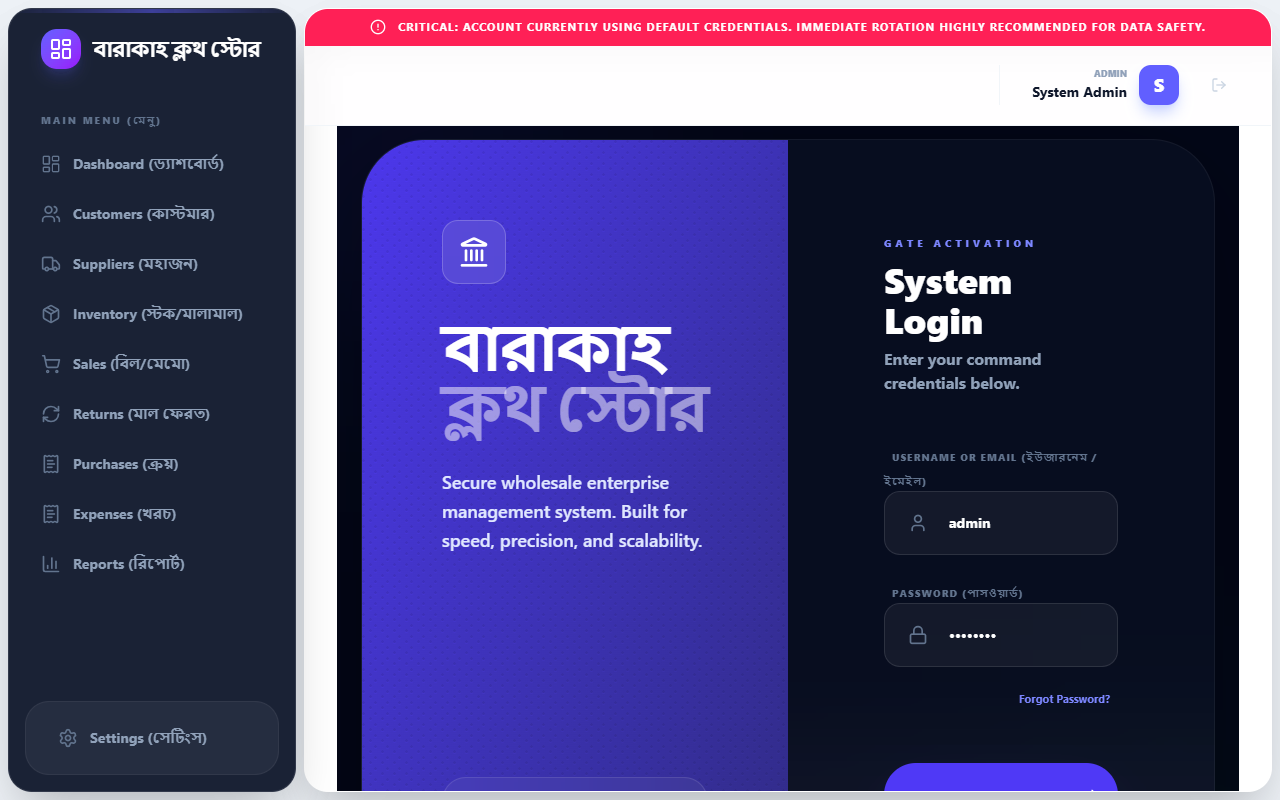
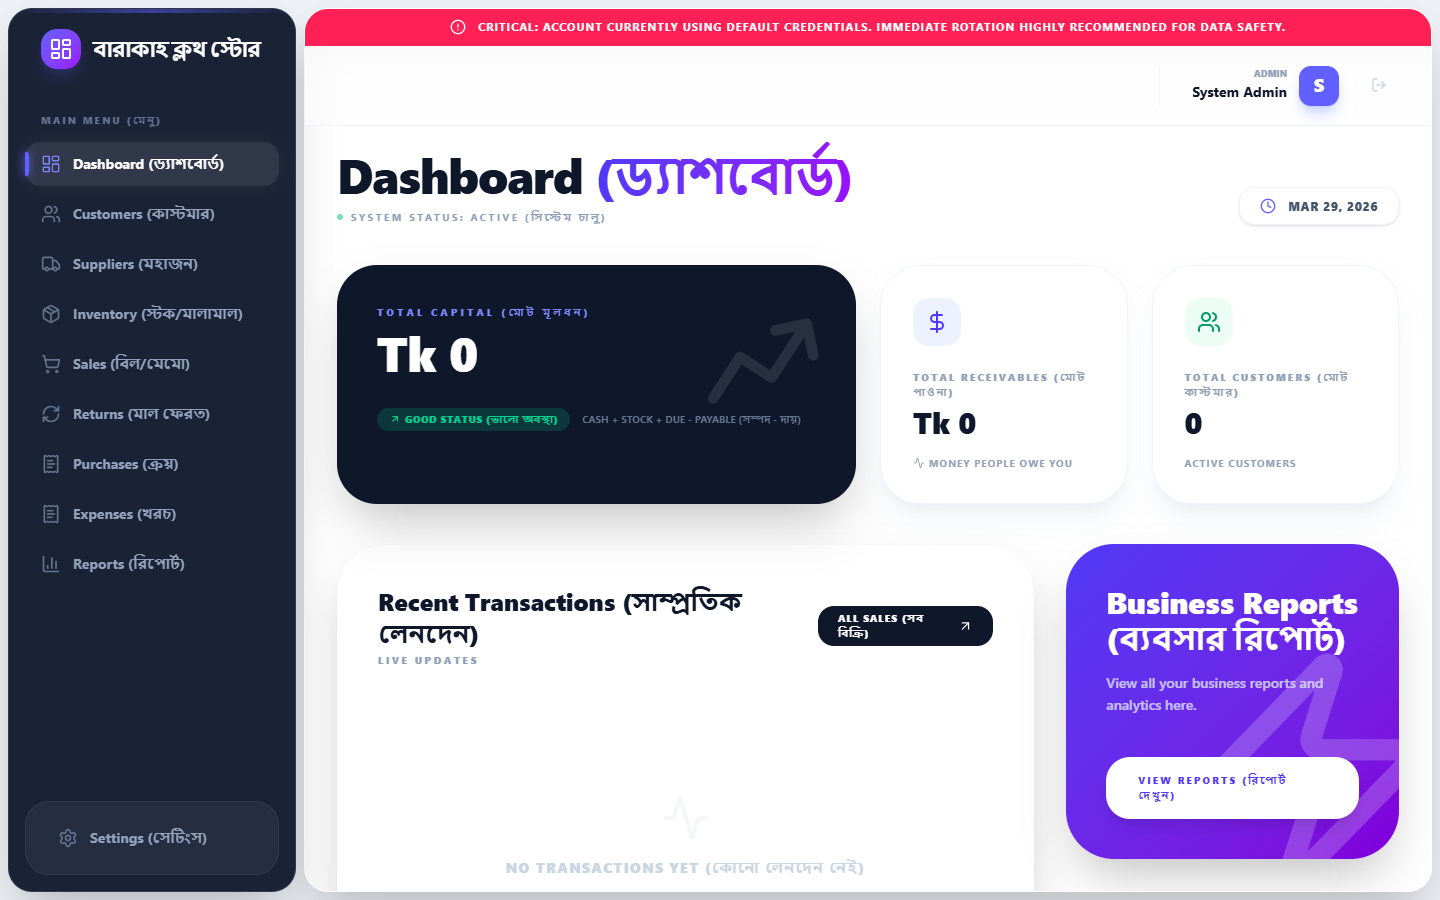
Add comprehensive screenshots of all application pages

diff --git a/take_screenshots.js b/take_screenshots.js
@@ -1,4 +1,6 @@
 const puppeteer = require('puppeteer-core');
+const fs = require('fs');
+const path = require('path');
 
 (async () => {
   const browser = await puppeteer.launch({ 
@@ -6,7 +8,7 @@ const puppeteer = require('puppeteer-core');
     executablePath: 'C:\\Program Files (x86)\\Microsoft\\Edge\\Application\\msedge.exe'
   });
   const page = await browser.newPage();
-  await page.setViewport({ width: 1280, height: 800 });
+  await page.setViewport({ width: 1440, height: 900 });
 
   console.log('Navigating to login...');
   await page.goto('http://localhost:3000/login');
@@ -19,21 +21,31 @@ const puppeteer = require('puppeteer-core');
     page.waitForNavigation({ waitUntil: 'networkidle0' })
   ]);
   
-  console.log('Logged in. Capturing Dashboard...');
-  // Wait a bit for charts/data to load
-  await new Promise(r => setTimeout(r, 2000));
-  await page.screenshot({ path: 'public/screenshots/dashboard.png', fullPage: true });
+  const pagesToCapture = [
+    { route: '/', name: 'dashboard' },
+    { route: '/customers', name: 'customers' },
+    { route: '/suppliers', name: 'suppliers' },
+    { route: '/inventory', name: 'inventory' },
+    { route: '/sales', name: 'sales' },
+    { route: '/returns', name: 'returns' },
+    { route: '/purchases', name: 'purchases' },
+    { route: '/expenses', name: 'expenses' },
+    { route: '/reports', name: 'reports' },
+    { route: '/settings', name: 'settings' }
+  ];
 
-  console.log('Navigating to Inventory...');
-  await page.goto('http://localhost:3000/dashboard/inventory', { waitUntil: 'networkidle0' });
-  await new Promise(r => setTimeout(r, 1000));
-  await page.screenshot({ path: 'public/screenshots/inventory.png', fullPage: true });
+  for (const item of pagesToCapture) {
+    console.log(`Capturing ${item.name}...`);
+    try {
+      await page.goto(`http://localhost:3000${item.route}`, { waitUntil: 'networkidle0' });
+      // Wait for any data fetching/animations to complete
+      await new Promise(r => setTimeout(r, 2000));
+      await page.screenshot({ path: `public/screenshots/${item.name}.png`, fullPage: false }); // Disable fullpage so the sidebar stays neat
+    } catch (err) {
+      console.log(`Failed to capture ${item.name}: ${err.message}`);
+    }
+  }
 
-  console.log('Navigating to Sales...');
-  await page.goto('http://localhost:3000/dashboard/sales', { waitUntil: 'networkidle0' });
-  await new Promise(r => setTimeout(r, 1000));
-  await page.screenshot({ path: 'public/screenshots/sales.png', fullPage: true });
-
-  console.log('Done!');
+  console.log('All screenshots captured!');
   await browser.close();
 })();

diff --git a/README.md b/README.md
@@ -1,40 +1,69 @@
-# Wholesale ERP
+# Wholesale ERP System (বারাকাহ ক্লথ স্টোর)
 
-A comprehensive Grossery/Wholesale Enterprise Resource Planning system built with Next.js, Prisma, and TailwindCSS.
+A comprehensive Wholesale Enterprise Resource Planning system built with Next.js App Router, Prisma, and TailwindCSS, designed specifically for rapid and secure data entry with complete localization in Bengali.
 
-## Features
+## Key Features
 - **Dashboard Overview**: Detailed statistics for sales, purchases, and low-stock items.
 - **Inventory Management**: Track products accurately.
-- **Sales & Purchases**: Dynamic invoice creation and ledger generation.
-- **Reports**: Daily, monthly, and yearly reports at your fingertips.
-- **Localization**: Full support for Bengali language & formatting.
+- **Customers & Suppliers Ledgers**: Track balances, transactions, and payments.
+- **Sales & Purchases**: Dynamic invoice creation and ledger tracking.
+- **Returns & Expenses**: Log incoming defective items and outgoing business expenses.
+- **Reports**: Generate daily, monthly, and yearly business overview reports.
+- **Localization**: Full support for Bengali language & number formatting.
 
-## Screenshots
-*(Add screenshots below into the `public/screenshots/` folder to display them here)*
+---
 
-### Dashboard
+## System Screenshots
+
+Here is a full breakdown of the application interfaces:
+
+### 1. 📊 Dashboard
 ![Dashboard](public/screenshots/dashboard.png)
 
-### Inventory
+### 2. 👥 Customers (কাস্টমার)
+![Customers](public/screenshots/customers.png)
+
+### 3. 🏢 Suppliers (মহাজন)
+![Suppliers](public/screenshots/suppliers.png)
+
+### 4. 📦 Inventory (স্টক/মালামাল)
 ![Inventory](public/screenshots/inventory.png)
 
-### Sales Invoice
+### 5. 🛒 Sales (বিল/মেমো)
 ![Sales](public/screenshots/sales.png)
 
-## Getting Started
+### 6. 🔄 Returns (মাল ফেরত)
+![Returns](public/screenshots/returns.png)
 
-To run the project locally, just run:
+### 7. 📥 Purchases (ক্রয়)
+![Purchases](public/screenshots/purchases.png)
 
-```bash
-start-app.bat
-```
+### 8. 💸 Expenses (খরচ)
+![Expenses](public/screenshots/expenses.png)
 
-Login as Admin:
+### 9. 📈 Reports (রিপোর্ট)
+![Reports](public/screenshots/reports.png)
+
+### 10. ⚙ Settings (সেটিংস)
+![Settings](public/screenshots/settings.png)
+
+---
+
+## 🚀 Getting Started Locally
+
+This repo is structured as a portable bundle. You don't need continuous internet access.
+
+To spin up the server:
+1. Double-click `start-app.bat`
+2. Wait a few seconds for the Node server to compile and start.
+3. The app will open at `http://localhost:3000`
+
+### 🔑 Login Credentials:
 - **Username**: `admin`
 - **Password**: `admin123`
 
-## Tech Stack
-- Next.js (App Router)
-- React Hook Form
-- Prisma ORM
-- TailwindCSS & shadcn/ui
+## 🛠 Tech Stack
+- **Framework**: Next.js 16 (App Router)
+- **Database ORM**: Prisma
+- **Styling**: TailwindCSS, Shadcn/UI
+- **Icons**: Lucide React
